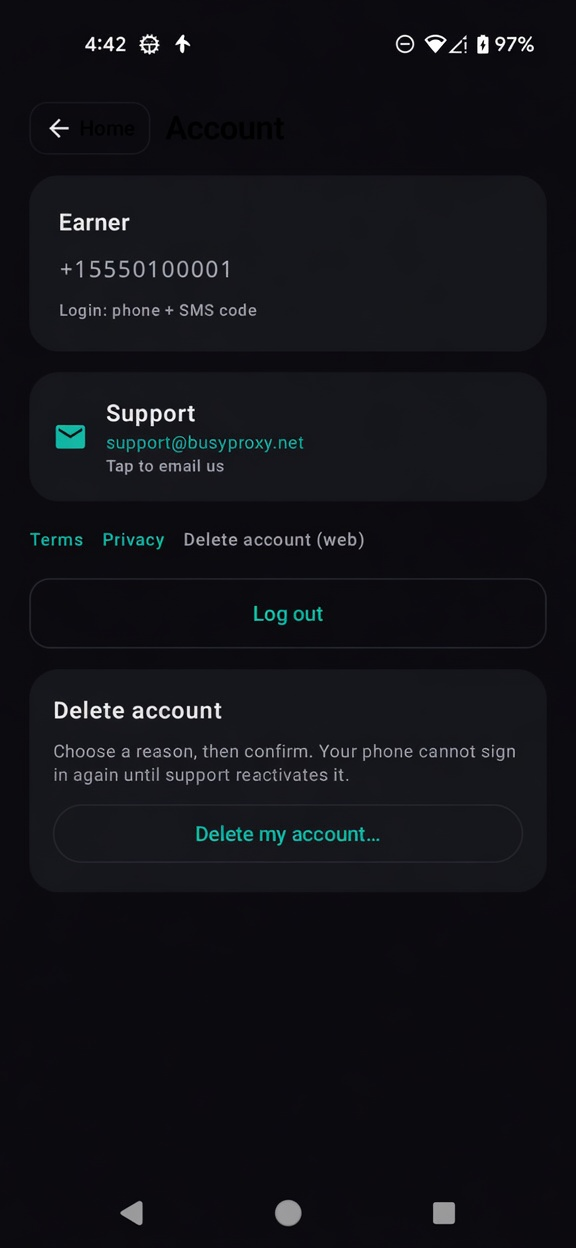
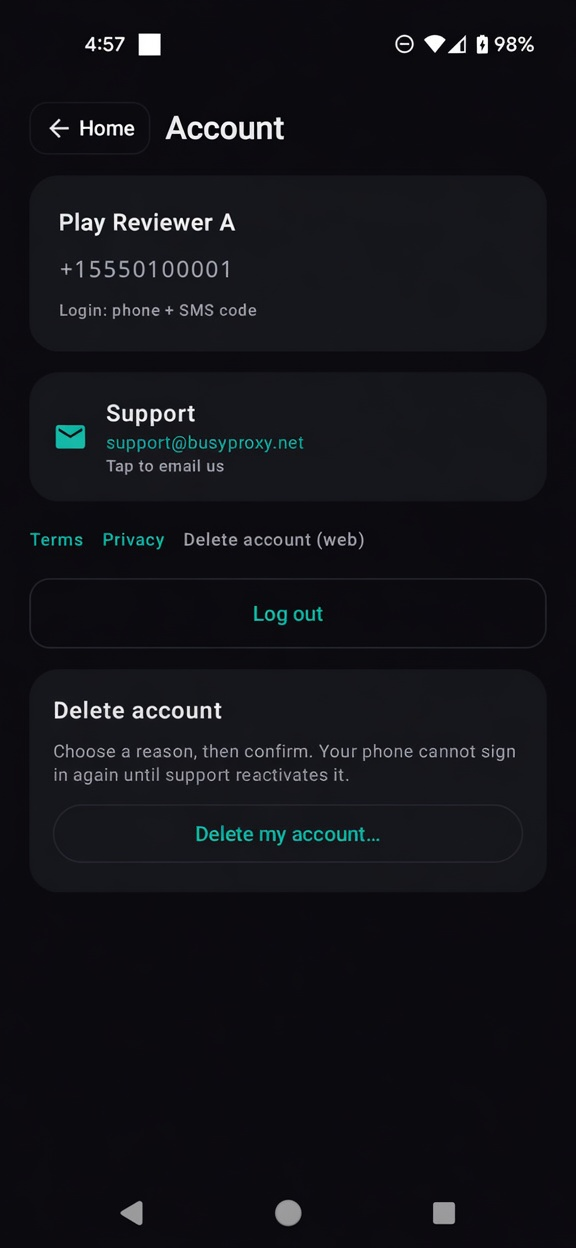
Publish fresh demo-safe app screenshots to the public site.
New device captures for home, sharing, session exit IP, and account;
marketing assets use Play demo phone +15550100001 only.

diff --git a/src/components/earner/app-preview-page.tsx b/src/components/earner/app-preview-page.tsx
@@ -15,7 +15,7 @@ import { cn } from "@/lib/utils";
 
 /** Android screenshots for marketing (demo phone only — never a real earner number). */
 // Cache-bust when marketing PNGs are replaced
-const V = "v5";
+const V = "v6";
 const DEMO_PHONE = "+15550100001";
 const SHOTS = [
   {
@@ -26,27 +26,27 @@ const SHOTS = [
   {
     src: `/app/01-login.png?${V}`,
     title: "Phone OTP",
-    caption: `Demo login uses Play review phone ${DEMO_PHONE} (fixed OTP in App access notes) — not a personal number.`,
+    caption: `Demo login ${DEMO_PHONE} (Play review fixed OTP) — never a personal number on the public site.`,
   },
   {
     src: `/app/02-home.png?${V}`,
-    title: "Home · sharing on",
-    caption: `Balance, rates (${PRICING.headlineRateLabel} / ${PRICING.mobileRateLabel}), Automatic · Wi‑Fi · Mobile, Live session.`,
+    title: "Home · ready",
+    caption: `Balance and rates (${PRICING.headlineRateLabel} / ${PRICING.mobileRateLabel}) · Automatic · Wi‑Fi · Mobile.`,
   },
   {
     src: `/app/03-sharing.png?${V}`,
-    title: "Session · exit IP",
-    caption: "Session card with sent/received/streams and Exit IP when online.",
+    title: "Sharing on",
+    caption: "Sharing live with background keep-alive copy and Stop sharing control.",
   },
   {
-    src: `/app/04-agent-traffic.png?${V}`,
-    title: "Earner home",
-    caption: "Marketing hero shot — redesigned home while sharing.",
+    src: `/app/05-oneplus-sharing.png?${V}`,
+    title: "Session · exit IP",
+    caption: "Session card ends with Exit IP when the tunnel is online.",
   },
   {
     src: `/app/06-account.png?${V}`,
     title: "Account",
-    caption: `Profile, support, logout, delete — demo account ${DEMO_PHONE}.`,
+    caption: `Play Reviewer A · ${DEMO_PHONE} — support, logout, delete.`,
   },
 ] as const;
 

diff --git a/src/components/marketing/landing.tsx b/src/components/marketing/landing.tsx
@@ -527,8 +527,8 @@ function PhonePreview() {
     <div className="w-full max-w-[280px]">
       <div className="overflow-hidden rounded-[1.75rem] border border-border-strong bg-black phone-shadow shadow-2xl shadow-black/40">
         <img
-          src="/app/02-home.png?v5"
-          alt="BusyProxy Android app — redesigned home with balance, network modes, and session"
+          src="/app/04-agent-traffic.png?v6"
+          alt="BusyProxy Android app — sharing on with live session"
           className="block h-auto w-full"
           width={1080}
           height={2340}

diff --git a/src/routes/app.tsx b/src/routes/app.tsx
@@ -29,7 +29,7 @@ export const Route = createFileRoute("/app")({
       },
       {
         property: "og:image",
-        content: "https://busyproxy.net/app/02-home.png?v5",
+        content: "https://busyproxy.net/app/04-agent-traffic.png?v6",
       },
     ],
     links: [{ rel: "canonical", href: "https://busyproxy.net/app" }],
